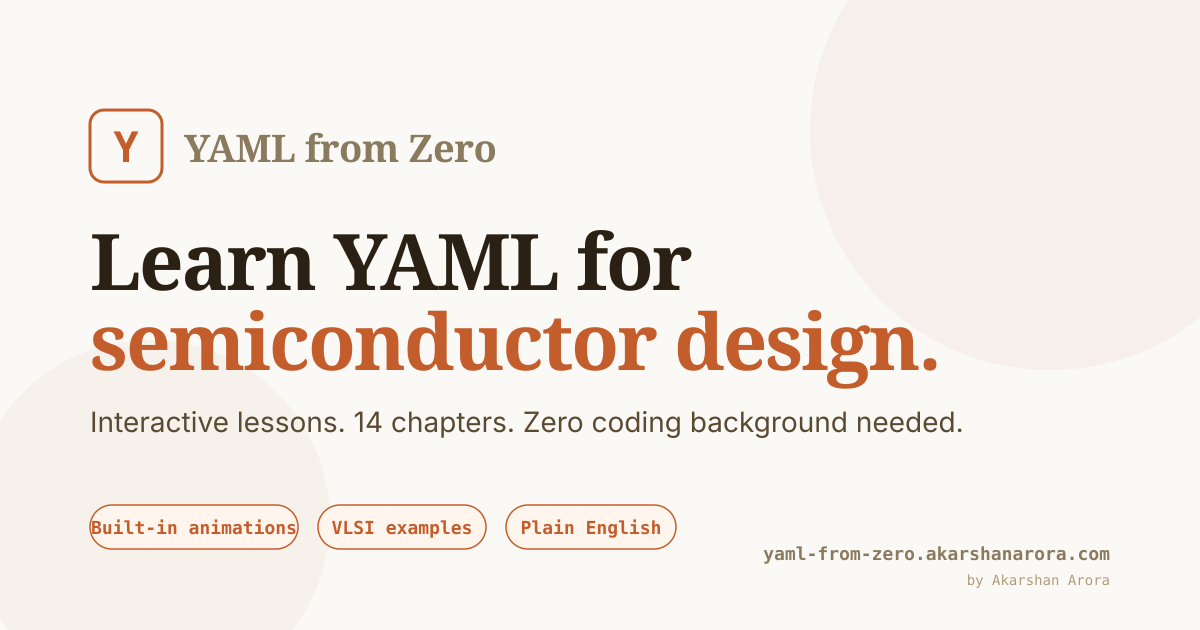
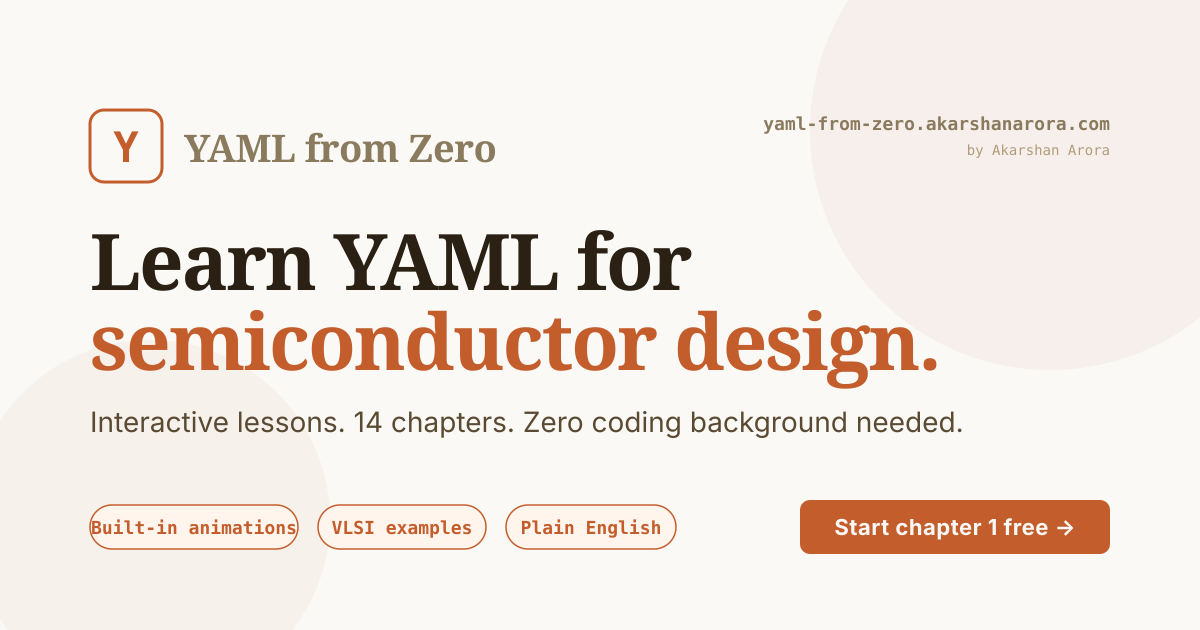
Improve OG metadata and social preview image
- Extend og:description and twitter:description to 143 chars (within
  the 110-160 optimal range for social previews)
- Add a clear 'Start chapter 1 free →' call-to-action button to the
  OG image
- Move URL/author tag to the top-right to make room for the CTA

Changed region(s): [[0.6167, 0.7841, 0.925, 0.9349], [0.6167, 0.181, 0.925, 0.2413]]

diff --git a/src/app.html b/src/app.html
@@ -19,7 +19,7 @@
 		<meta property="og:title" content="YAML from Zero — Interactive YAML for VLSI Engineers" />
 		<meta
 			property="og:description"
-			content="Learn YAML for semiconductor design — interactively. No coding background needed."
+			content="Learn YAML for semiconductor design — interactively. 14 chapters with built-in animations. No coding background needed. Start chapter 1 free."
 		/>
 		<meta property="og:image" content="https://yaml-from-zero.akarshanarora.com/og-image.png" />
 		<meta property="og:image:width" content="1200" />
@@ -31,7 +31,7 @@
 		<meta name="twitter:title" content="YAML from Zero — Interactive YAML for VLSI Engineers" />
 		<meta
 			name="twitter:description"
-			content="Learn YAML for semiconductor design — interactively. No coding background needed."
+			content="Learn YAML for semiconductor design — interactively. 14 chapters with built-in animations. No coding background needed. Start chapter 1 free."
 		/>
 		<meta name="twitter:image" content="https://yaml-from-zero.akarshanarora.com/og-image.png" />
 
